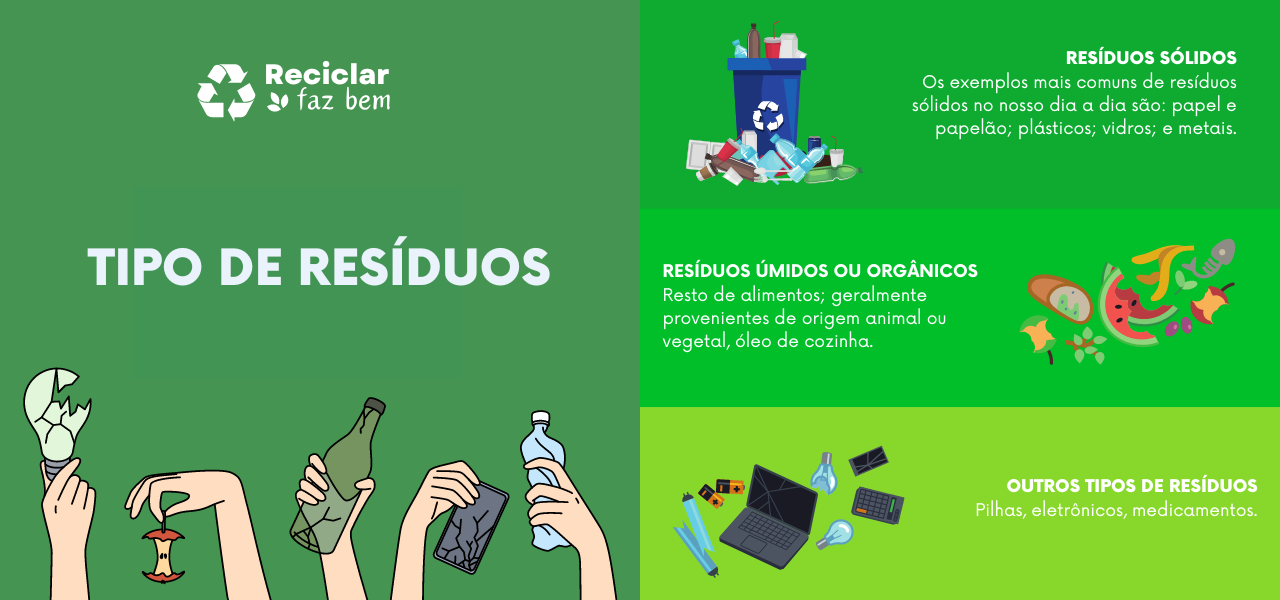
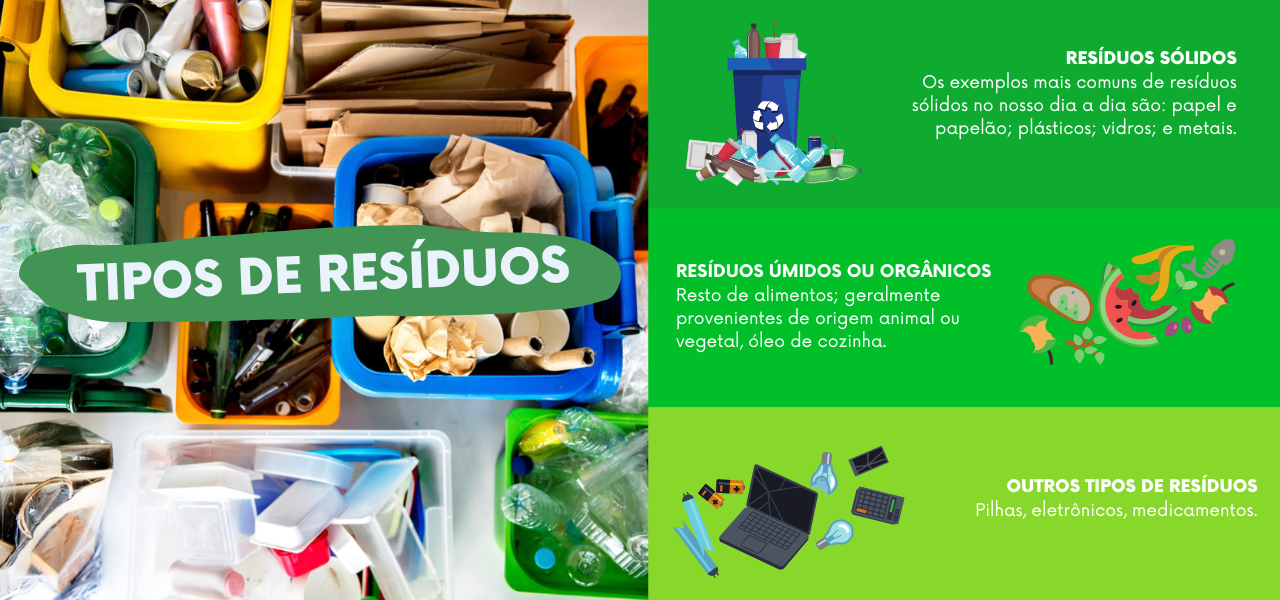
finalizada a página como descartar

diff --git a/Sprint_2_Telas/como_descartar.html b/Sprint_2_Telas/como_descartar.html
@@ -59,13 +59,13 @@
                     <p><strong>Outros tipos de resíduos:</strong></p>
                     <ul>
                         <li>Pilhas, possuem um processo de destinação ambientalmente correto muito específico e não podem ser descartadas em lixo comum. Procure um ponto de entrega voluntária para pilhas, são normalmente dispostos em supermercados, caso não encontre, vale ligar para a prefeitura;</li>
-                        <li>eletrônicos, assim como as pilhas, a logística reversa de eletrônicos é paramentada pela legislação ambiental e possui postos de entrega para a coleta desses materiais;</li>
-                        <li>medicamentos e outros resíduos tóxicos também precisam de destinação específica que pode ser conferida junto ao fabricante.</li>
+                        <li>Eletrônicos, assim como as pilhas, a logística reversa de eletrônicos é paramentada pela legislação ambiental e possui postos de entrega para a coleta desses materiais;</li>
+                        <li>Medicamentos e outros resíduos tóxicos também precisam de destinação específica que pode ser conferida junto ao fabricante.</li>
                     </ul>                     
                 </div>
                 <hr>
                 <div id="bloco3_descartar">
-                    <img src="img/conteudo_como_descartar/cooperativa.jpg" width="30%" height="30%" alt="" id="cooperativa">
+                    <img src="img/conteudo_como_descartar/solidoxorgânico.png" width="45%" height="45%" alt="" id="cooperativa">
                     <div>
                         <h2>Por onde devo começar?<br>Simples! Separe o resíduo seco do resíduo orgânico.</h2>
                         <p>Comece separando o resíduo gerado em sua residência entre os secos (papel, plástico, vidro e metal) dos úmidos e orgânicos (restos de comida e etc dos restos de alimento e roupa). Essa simples separação faz toda a diferença para as cooperativas e operadores de reciclagem, pois evita a contaminação de materiais que poderiam ser facilmente recicláveis. Separando você evita que o papel, por exemplo, chegue molhado ou muito cheio de comida.</p>
